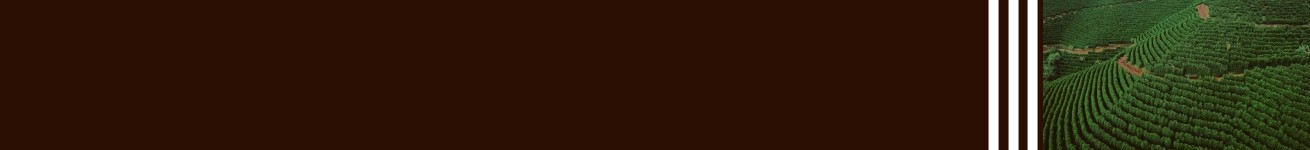
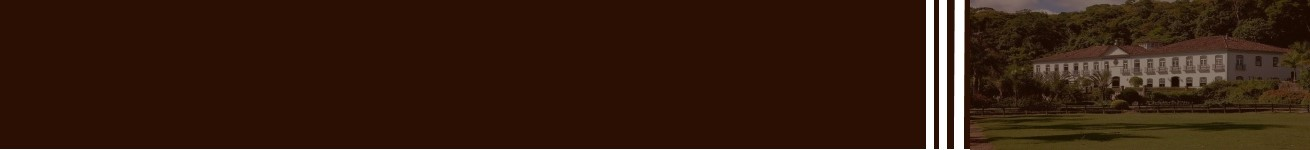
concluir cabecalho

Changed region(s): [[0.0, 0.0, 1.0, 1.0]]

diff --git a/preparo.html b/preparo.html
@@ -3,25 +3,27 @@
 <head>
     <meta charset="UTF-8">
     <meta name="viewport" content="width=device-width, initial-scale=1.0">
-    <title>Café Brasilis - Preparo</title>
+    <title>Caneca de Café - Preparo</title>
     <link rel="stylesheet" href="_css/estilo.css"/>
     <link rel="stylesheet" href="_css/video.css"/>
 </head>
+<script language="javascript" src="_javascript/funcoes.js"></script>
 <body>
     <div id="interface">
         <header id="cabecalho">
             <hgroup>
-                <h1>Café Brasilis</h1>
+                <h1>Caneca de Café</h1>
                 <h2>A cultura do Brasil</h2>
             </hgroup>
+            <img id="icone" src="_imagens/icone-preparo.jpg"/>
             <nav id="menu">
                 <h1>Menu Principal</h1>
                 <ul type="disc">
-                    <li><a href="home.html">Home</a></li>
-                    <li><a href="fruta.html">Fruta</a></li>
-                    <li><a href="torra.html">Torra</a></li>
-                    <li><a href="preparo.html">Preparo</a></li>
-                    <li><a href="referencias.html">Referências</a></li>
+                    <li onmouseover="mudafoto('_imagens/icone-home.jpg')" onmouseout="mudafoto('_imagens/icone-preparo.jpg')"><a href="home.html">Home</a></li>
+                    <li onmouseover="mudafoto('_imagens/icone-fruta.jpg')" onmouseout="mudafoto('_imagens/icone-preparo.jpg')"><a href="fruta.html">Fruta</a></li>
+                    <li onmouseover="mudafoto('_imagens/icone-torra.jpg')" onmouseout="mudafoto('_imagens/icone-preparo.jpg')"><a href="torra.html">Torra</a></li>
+                    <li onmouseover="mudafoto('_imagens/icone-preparo.jpg')" onmouseout="mudafoto('_imagens/icone-preparo.jpg')"><a href="preparo.html">Preparo</a></li>
+                    <li onmouseover="mudafoto('_imagens/icone-referencia.jpg')" onmouseout="mudafoto('_imagens/icone-preparo.jpg')"><a href="referencias.html">Referências</a></li>
                 </ul>
             </nav>
         </header>
@@ -52,10 +54,10 @@
                 <p>Embora o nome sugira o contrário, essa cafeteira também foi criada por um italiano, que se inspirou em criações feitas por franceses anteriormente. A diferença entre os projetos foi a inserção de um êmbolo (também conhecido como haste), que tem como função a separação da borra do café do líquido propriamente dito. A textura da moagem deve, nesse caso, ser parecida com a do sal grosso, de forma a extrair melhor seu cafezinho. Para utilizá-la, deve-se preaquecer a cafeteira com água, posteriormente descartada, e depositar o pó no fundo do utensilio, enchendo-a com outra leva de água quente. Depois disso, é feita a mistura e a infusão do pó. Por fim, o êmbolo é pressionado, o café é coado e a mágica acontece. O resultado também é encorpado, mas possui um sabor levemente ácido e cítrico. É de fácil utilização, limpeza e manutenção.</p>
             </article>
         </section>
-<footer id="rodape"> <!--Para criar um rodape-->
-    <p>Copyright 2020 - by Bruno Virgilio<br>
-    Linkedin | GitHub</p>
-</footer>         
+        <footer id="rodape"> <!--Para criar um rodape-->
+            <p>Feito por - Bruno Virgilio<br>&nbsp;&nbsp;&nbsp;&nbsp;&nbsp;&nbsp;&nbsp;&nbsp;&nbsp;
+            <a href="https://www.linkedin.com/in/brunovirgiliodelima/" target="_blank">Linkedin</a> | <a href="https://github.com/brunovirgilio" target="_blank">GitHub</a> | <a href="https://www.youtube.com/channel/UCen2C7TDVzuF6fs6dE5oR0A" target="_blank">YouTube</a></p>
+        </footer>         
 </div>
 </body>
 </html>

diff --git a/torra.html b/torra.html
@@ -1,25 +1,27 @@
 <!DOCTYPE html>
 <html lang="pt-br">
 <head>
-    <title>Café Brasilis - Torra</title>
+    <title>Caneca de Café - Torra</title>
     <link rel="stylesheet" href="_css/estilo.css"/>
     <link rel="stylesheet" href="_css/fotos.css"/>
 </head>
+<script language="javascript" src="_javascript/funcoes.js"></script>
 <body>
     <div id="interface">
         <header id="cabecalho">
             <hgroup>
-                <h1>Café Brasilis</h1>
+                <h1>Caneca de Café</h1>
                 <h2>A cultura do Brasil</h2>
             </hgroup>
+            <img id="icone" src="_imagens/icone-torra.jpg"/>
             <nav id="menu">
                 <h1>Menu Principal</h1>
                 <ul type="disc">
-                    <li><a href="home.html">Home</a></li>
-                    <li><a href="fruta.html">Fruta</a></li>
-                    <li><a href="torra.html">Torra</a></li>
-                    <li><a href="preparo.html">Preparo</a></li>
-                    <li><a href="referencias.html">Referências</a></li>
+                    <li onmouseover="mudafoto('_imagens/icone-home.jpg')" onmouseout="mudafoto('_imagens/icone-torra.jpg')"><a href="home.html">Home</a></li>
+                    <li onmouseover="mudafoto('_imagens/icone-fruta.jpg')" onmouseout="mudafoto('_imagens/icone-torra.jpg')"><a href="fruta.html">Fruta</a></li>
+                    <li onmouseover="mudafoto('_imagens/icone-torra.jpg')" onmouseout="mudafoto('_imagens/icone-torra.jpg')"><a href="torra.html">Torra</a></li>
+                    <li onmouseover="mudafoto('_imagens/icone-preparo.jpg')" onmouseout="mudafoto('_imagens/icone-torra.jpg')"><a href="preparo.html">Preparo</a></li>
+                    <li onmouseover="mudafoto('_imagens/icone-referencia.jpg')" onmouseout="mudafoto('_imagens/icone-torra.jpg')"><a href="referencias.html">Referências</a></li>
                 </ul>
             </nav>
         </header>
@@ -46,10 +48,10 @@
                 <p>Café menos ácido, mais amargo e menos encorpado. Torra mais escura deixa o café gourmet mais amargo o que pode ser confundido com um café “mais forte”. Porém, a torra muito escura pode “queimar” o café, acentuando muito o amargor e praticamente eliminando a acidez e o corpo.</p>
             </article>
         </section>
-        <footer id="rodape">
-            <p>Copyright 2020 - by Bruno Virgilio<br>
-                Linkedin | GitHub</p>
-        </footer>         
+        <footer id="rodape"> <!--Para criar um rodape-->
+            <p>Feito por - Bruno Virgilio<br>&nbsp;&nbsp;&nbsp;&nbsp;&nbsp;&nbsp;&nbsp;&nbsp;&nbsp;
+            <a href="https://www.linkedin.com/in/brunovirgiliodelima/" target="_blank">Linkedin</a> | <a href="https://github.com/brunovirgilio" target="_blank">GitHub</a> | <a href="https://www.youtube.com/channel/UCen2C7TDVzuF6fs6dE5oR0A" target="_blank">YouTube</a></p>
+        </footer>        
     </div>
 </body>
 </html>

diff --git a/home.html b/home.html
@@ -3,24 +3,26 @@
 <head>
     <meta charset="UTF-8">
     <meta name="viewport" content="width=device-width, initial-scale=1.0">
-    <title>Café Brasilis- Home</title>
+    <title>Caneca de Café - Home</title>
     <link rel="stylesheet" href="_css\estilo.css"/>
 </head>
+<script language="javascript" src="_javascript/funcoes.js"></script>
 <body>
     <div id="interface">
         <header id="cabecalho">
             <hgroup>
-                <h1>Café Brasilis</h1>
+                <h1>Caneca de Café</h1>
                 <h2>A cultura do Brasil</h2>
             </hgroup>
+            <img id="icone" src="_imagens/icone-home.jpg"/>
             <nav id="menu">
                 <h1>Menu Principal</h1>
                 <ul type="disc">
-                    <li><a href="home.html">Home</a></li>
-                    <li><a href="fruta.html">Fruta</a></li>
-                    <li><a href="torra.html">Torra</a></li>
-                    <li><a href="preparo.html">Preparo</a></li>
-                    <li><a href="referencias.html">Referências</a></li>
+                    <li onmouseover="mudafoto('_imagens/icone-home.jpg')" onmouseout="mudafoto('_imagens/icone-home.jpg')"><a href="home.html">Home</a></li>
+                    <li onmouseover="mudafoto('_imagens/icone-fruta.jpg')" onmouseout="mudafoto('_imagens/icone-home.jpg')"><a href="fruta.html">Fruta</a></li>
+                    <li onmouseover="mudafoto('_imagens/icone-torra.jpg')" onmouseout="mudafoto('_imagens/icone-home.jpg')"><a href="torra.html">Torra</a></li>
+                    <li onmouseover="mudafoto('_imagens/icone-preparo.jpg')" onmouseout="mudafoto('_imagens/icone-home.jpg')"><a href="preparo.html">Preparo</a></li>
+                    <li onmouseover="mudafoto('_imagens/icone-referencia.jpg')" onmouseout="mudafoto('_imagens/icone-home.jpg')"><a href="referencias.html">Referências</a></li>
                 </ul>
             </nav>
         </header>
@@ -92,8 +94,8 @@
             <p>Segundo uma das "lendas" da descoberta do cafeeiro, um pastor etíope foi quem percebeu que algumas de suas cabras mudaram seu comportamento após fazer uso de folhas da planta de café em sua alimentação, influenciando no comportamento de monges que o observaram.</p>
         </aside>
         <footer id="rodape"> <!--Para criar um rodape-->
-            <p>Copyright 2020 - by Bruno Virgilio<br>
-            Linkedin | GitHub</p>
+            <p>Feito por - Bruno Virgilio<br>&nbsp;&nbsp;&nbsp;&nbsp;&nbsp;&nbsp;&nbsp;&nbsp;&nbsp;
+            <a href="https://www.linkedin.com/in/brunovirgiliodelima/" target="_blank">Linkedin</a> | <a href="https://github.com/brunovirgilio" target="_blank">GitHub</a> | <a href="https://www.youtube.com/channel/UCen2C7TDVzuF6fs6dE5oR0A" target="_blank">YouTube</a></p>
         </footer>    
     </div>
 </body>

diff --git a/fruta.html b/fruta.html
@@ -3,24 +3,26 @@
 <head>
     <meta charset="UTF-8">
     <meta name="viewport" content="width=device-width, initial-scale=1.0">
-    <title>Café Brasilis - Fruta</title>
+    <title>Caneca de Café - Fruta</title>
     <link rel="stylesheet" href="_css/estilo.css"/>
 </head>
+<script language="javascript" src="_javascript/funcoes.js"></script>
 <body>
     <div id="interface">
         <header id="cabecalho">
             <hgroup>
-                <h1>Café Brasilis</h1>
+                <h1>Caneca de Café</h1>
                 <h2>A cultura do Brasil</h2>
             </hgroup>
+            <img id="icone" src="_imagens/icone-fruta.jpg"/>
             <nav id="menu">
                 <h1>Menu Principal</h1>
                 <ul type="disc">
-                    <li><a href="home.html">Home</a></li>
-                    <li><a href="fruta.html">Fruta</a></li>
-                    <li><a href="torra.html">Torra</a></li>
-                    <li><a href="preparo.html">Preparo</a></li>
-                    <li><a href="referencias.html">Referências</a></li>
+                    <li onmouseover="mudafoto('_imagens/icone-home.jpg')" onmouseout="mudafoto('_imagens/icone-fruta.jpg')"><a href="home.html">Home</a></li>
+                    <li onmouseover="mudafoto('_imagens/icone-fruta.jpg')" onmouseout="mudafoto('_imagens/icone-fruta.jpg')"><a href="fruta.html">Fruta</a></li>
+                    <li onmouseover="mudafoto('_imagens/icone-torra.jpg')" onmouseout="mudafoto('_imagens/icone-fruta.jpg')"><a href="torra.html">Torra</a></li>
+                    <li onmouseover="mudafoto('_imagens/icone-preparo.jpg')" onmouseout="mudafoto('_imagens/icone-fruta.jpg')"><a href="preparo.html">Preparo</a></li>
+                    <li onmouseover="mudafoto('_imagens/icone-referencia.jpg')" onmouseout="mudafoto('_imagens/icone-fruta.jpg')"><a href="referencias.html">Referências</a></li>
                 </ul>
             </nav>
         </header>
@@ -46,9 +48,9 @@
             </article>
         </section>
         <footer id="rodape"> <!--Para criar um rodape-->
-            <p>Copyright 2020 - by Bruno Virgilio<br>
-            Linkedin | GitHub</p>
-        </footer>         
+            <p>Feito por - Bruno Virgilio<br>&nbsp;&nbsp;&nbsp;&nbsp;&nbsp;&nbsp;&nbsp;&nbsp;&nbsp;
+            <a href="https://www.linkedin.com/in/brunovirgiliodelima/" target="_blank">Linkedin</a> | <a href="https://github.com/brunovirgilio" target="_blank">GitHub</a> | <a href="https://www.youtube.com/channel/UCen2C7TDVzuF6fs6dE5oR0A" target="_blank">YouTube</a></p>
+        </footer>       
     </div>
 </body>
 </html>

diff --git a/referencias.html b/referencias.html
@@ -3,24 +3,26 @@
 <head>
     <meta charset="UTF-8">
     <meta name="viewport" content="width=device-width, initial-scale=1.0">
-    <title>Café Brasilis - Referências</title>
+    <title>Caneca de Café - Referências</title>
     <link rel="stylesheet" href="_css/estilo.css"/>
 </head>
+<script language="javascript" src="_javascript/funcoes.js"></script>
 <body>
     <div id="interface">
         <header id="cabecalho">
             <hgroup>
-                <h1>Café Brasilis</h1>
+                <h1>Caneca de Café</h1>
                 <h2>A cultura do Brasil</h2>
             </hgroup>
+            <img id="icone" src="_imagens/icone-referencia.jpg"/>
             <nav id="menu">
                 <h1>Menu Principal</h1>
                 <ul type="disc">
-                    <li><a href="home.html">Home</a></li>
-                    <li><a href="fruta.html">Fruta</a></li>
-                    <li><a href="torra.html">Torra</a></li>
-                    <li><a href="preparo.html">Preparo</a></li>
-                    <li><a href="referencias.html">Referências</a></li>
+                    <li onmouseover="mudafoto('_imagens/icone-home.jpg')" onmouseout="mudafoto('_imagens/icone-referencia.jpg')"><a href="home.html">Home</a></li>
+                    <li onmouseover="mudafoto('_imagens/icone-fruta.jpg')" onmouseout="mudafoto('_imagens/icone-referencia.jpg')"><a href="fruta.html">Fruta</a></li>
+                    <li onmouseover="mudafoto('_imagens/icone-torra.jpg')" onmouseout="mudafoto('_imagens/icone-referencia.jpg')"><a href="torra.html">Torra</a></li>
+                    <li onmouseover="mudafoto('_imagens/icone-preparo.jpg')" onmouseout="mudafoto('_imagens/icone-referencia.jpg')"><a href="preparo.html">Preparo</a></li>
+                    <li onmouseover="mudafoto('_imagens/icone-referencia.jpg')" onmouseout="mudafoto('_imagens/icone-referencia.jpg')"><a href="referencias.html">Referências</a></li>
                 </ul>
             </nav>
         </header>
@@ -48,8 +50,8 @@
 </article>
 </section>
 <footer id="rodape"> <!--Para criar um rodape-->
-    <p>Copyright 2020 - by Bruno Virgilio<br>
-    Linkedin | GitHub</p>
+    <p>Feito por - Bruno Virgilio<br>&nbsp;&nbsp;&nbsp;&nbsp;&nbsp;&nbsp;&nbsp;&nbsp;&nbsp;
+    <a href="https://www.linkedin.com/in/brunovirgiliodelima/" target="_blank">Linkedin</a> | <a href="https://github.com/brunovirgilio" target="_blank">GitHub</a> | <a href="https://www.youtube.com/channel/UCen2C7TDVzuF6fs6dE5oR0A" target="_blank">YouTube</a></p>
 </footer>         
 </div>
 </body>

diff --git a/_css/estilo.css b/_css/estilo.css
@@ -1,4 +1,5 @@
 @charset "UTF-8";
+@import url('https://fonts.googleapis.com/css2?family=Dancing+Script:wght@700&display=swap');
 
 body{
     background-color: #ffffff;
@@ -32,27 +33,32 @@ div#interface{
 header#cabecalho{
     border-bottom: 1px #301102 solid;
     background-color: #301102 ;
-    background: url("../_imagens/cabecalho-fruta.jpg");
+    /*background: url("../_imagens/cabecalho-fruta.jpg");*/
     height: 150px;
 }
 header#cabecalho h1{
-   font-family: Arial, sans-serif;
+    font-family: 'Dancing Script', cursive;
    color: #ffffff;
-   font-size: 30px;
+   font-size: 40px;
    text-shadow: 1px 1px 1px rgba(0,0,0,.6);
    padding: 0px;
    margin-bottom: 0px;
    margin-left: 10px;
 }
 header#cabecalho h2{
-    font-family: Arial, sans-serif;
+    font-family: 'Trebuchet MS', 'Lucida Sans Unicode', 'Lucida Grande', 'Lucida Sans', Arial, sans-serif;
     color: #ffffff;
-    font-size: 15px;
+    font-size: 20px;
     padding: 0px;
+    margin-top: 0px;
     margin-bottom: 0px;
     margin-left: 10px;
 }
-
+header#cabecalho img#icone{
+    position: absolute;
+    top: 39px;
+    right: 18px;
+}
 
 figure.foto-legenda{
     position: relative;
@@ -63,7 +69,7 @@ figure.foto-legenda{
 }
 figure.foto-legenda img{
     width: 100%;
-    height: 100%;
+    height: 100%;    
 }
 figure.foto-legenda figcaption{
     opacity: 0;
@@ -125,6 +131,8 @@ section#corpo{
     float: left;
     border-right: 1px solid #af4e1d;
     padding-right: 15px;
+    max-width:100%;
+    height:auto;
 }
 
 article#noticia-principal h2{ /*Essa parte configura so o artigo */

diff --git a/_css/fotos.css b/_css/fotos.css
@@ -1,7 +1,8 @@
 @charset "UTF-8";
 
+
 ul#album-fotos{
-    width: 700px;
+    width: auto;
     margin: 0 auto;
     margin-inline-start: 250px;
     padding: 50px;

diff --git a/_javascript/funcoes.js b/_javascript/funcoes.js
@@ -1,0 +1,3 @@
+function mudafoto(foto){
+    document.getElementById("icone").src = foto;
+}
